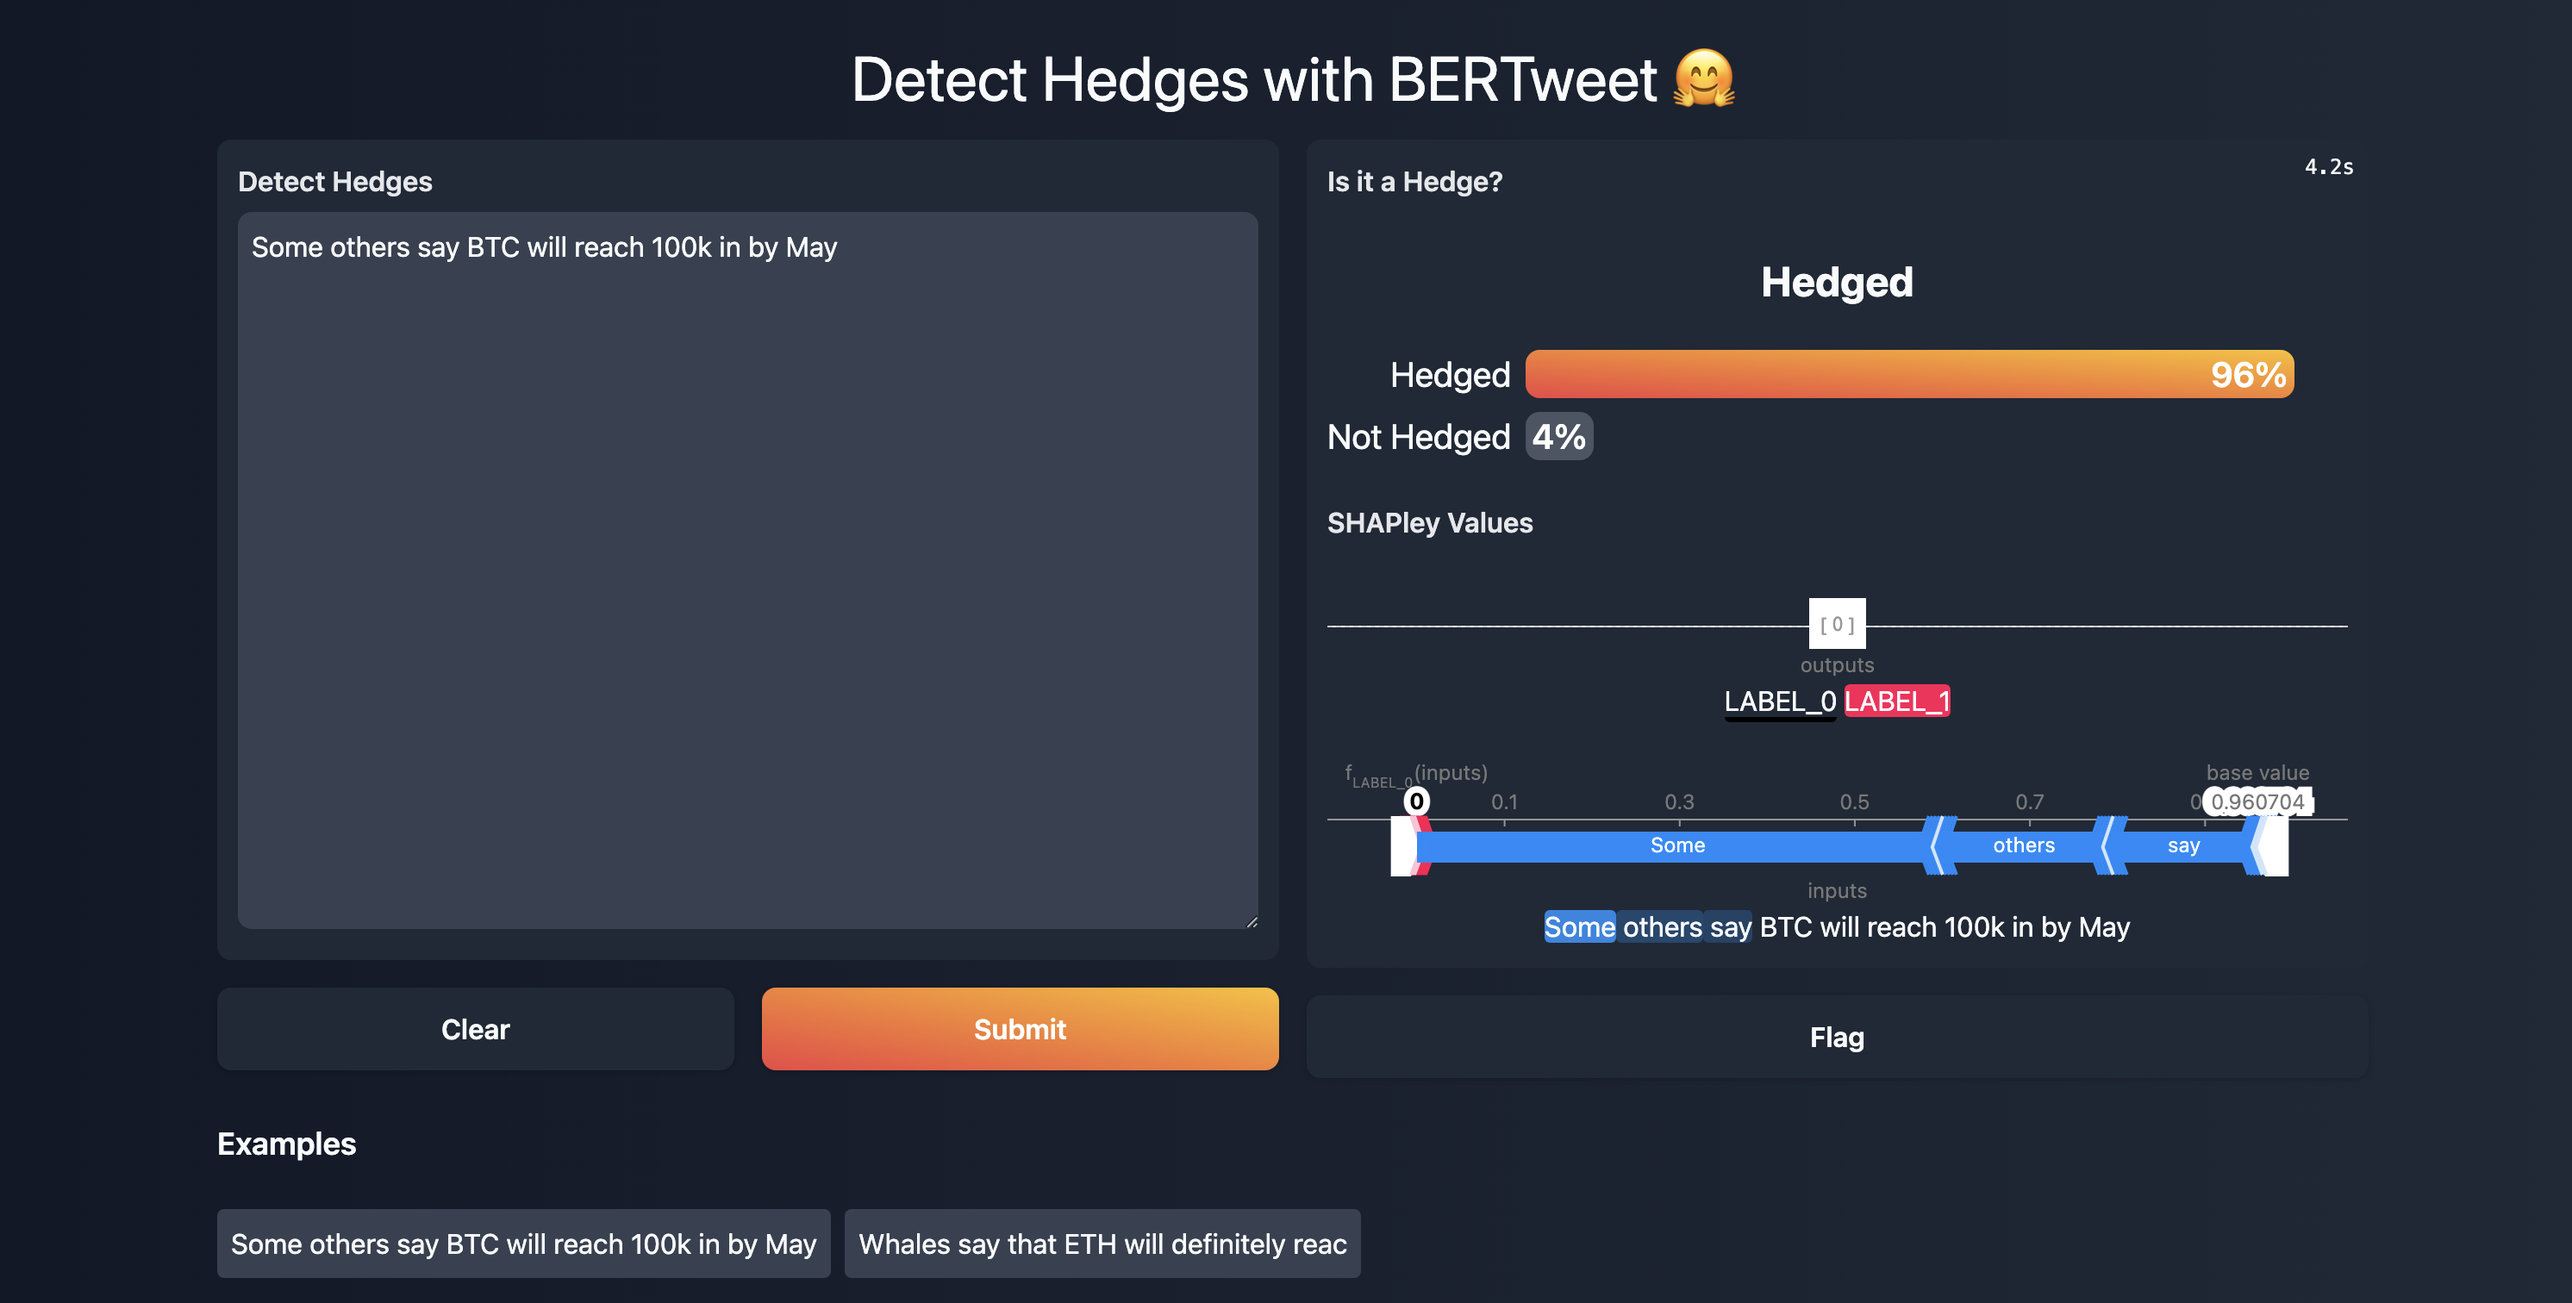
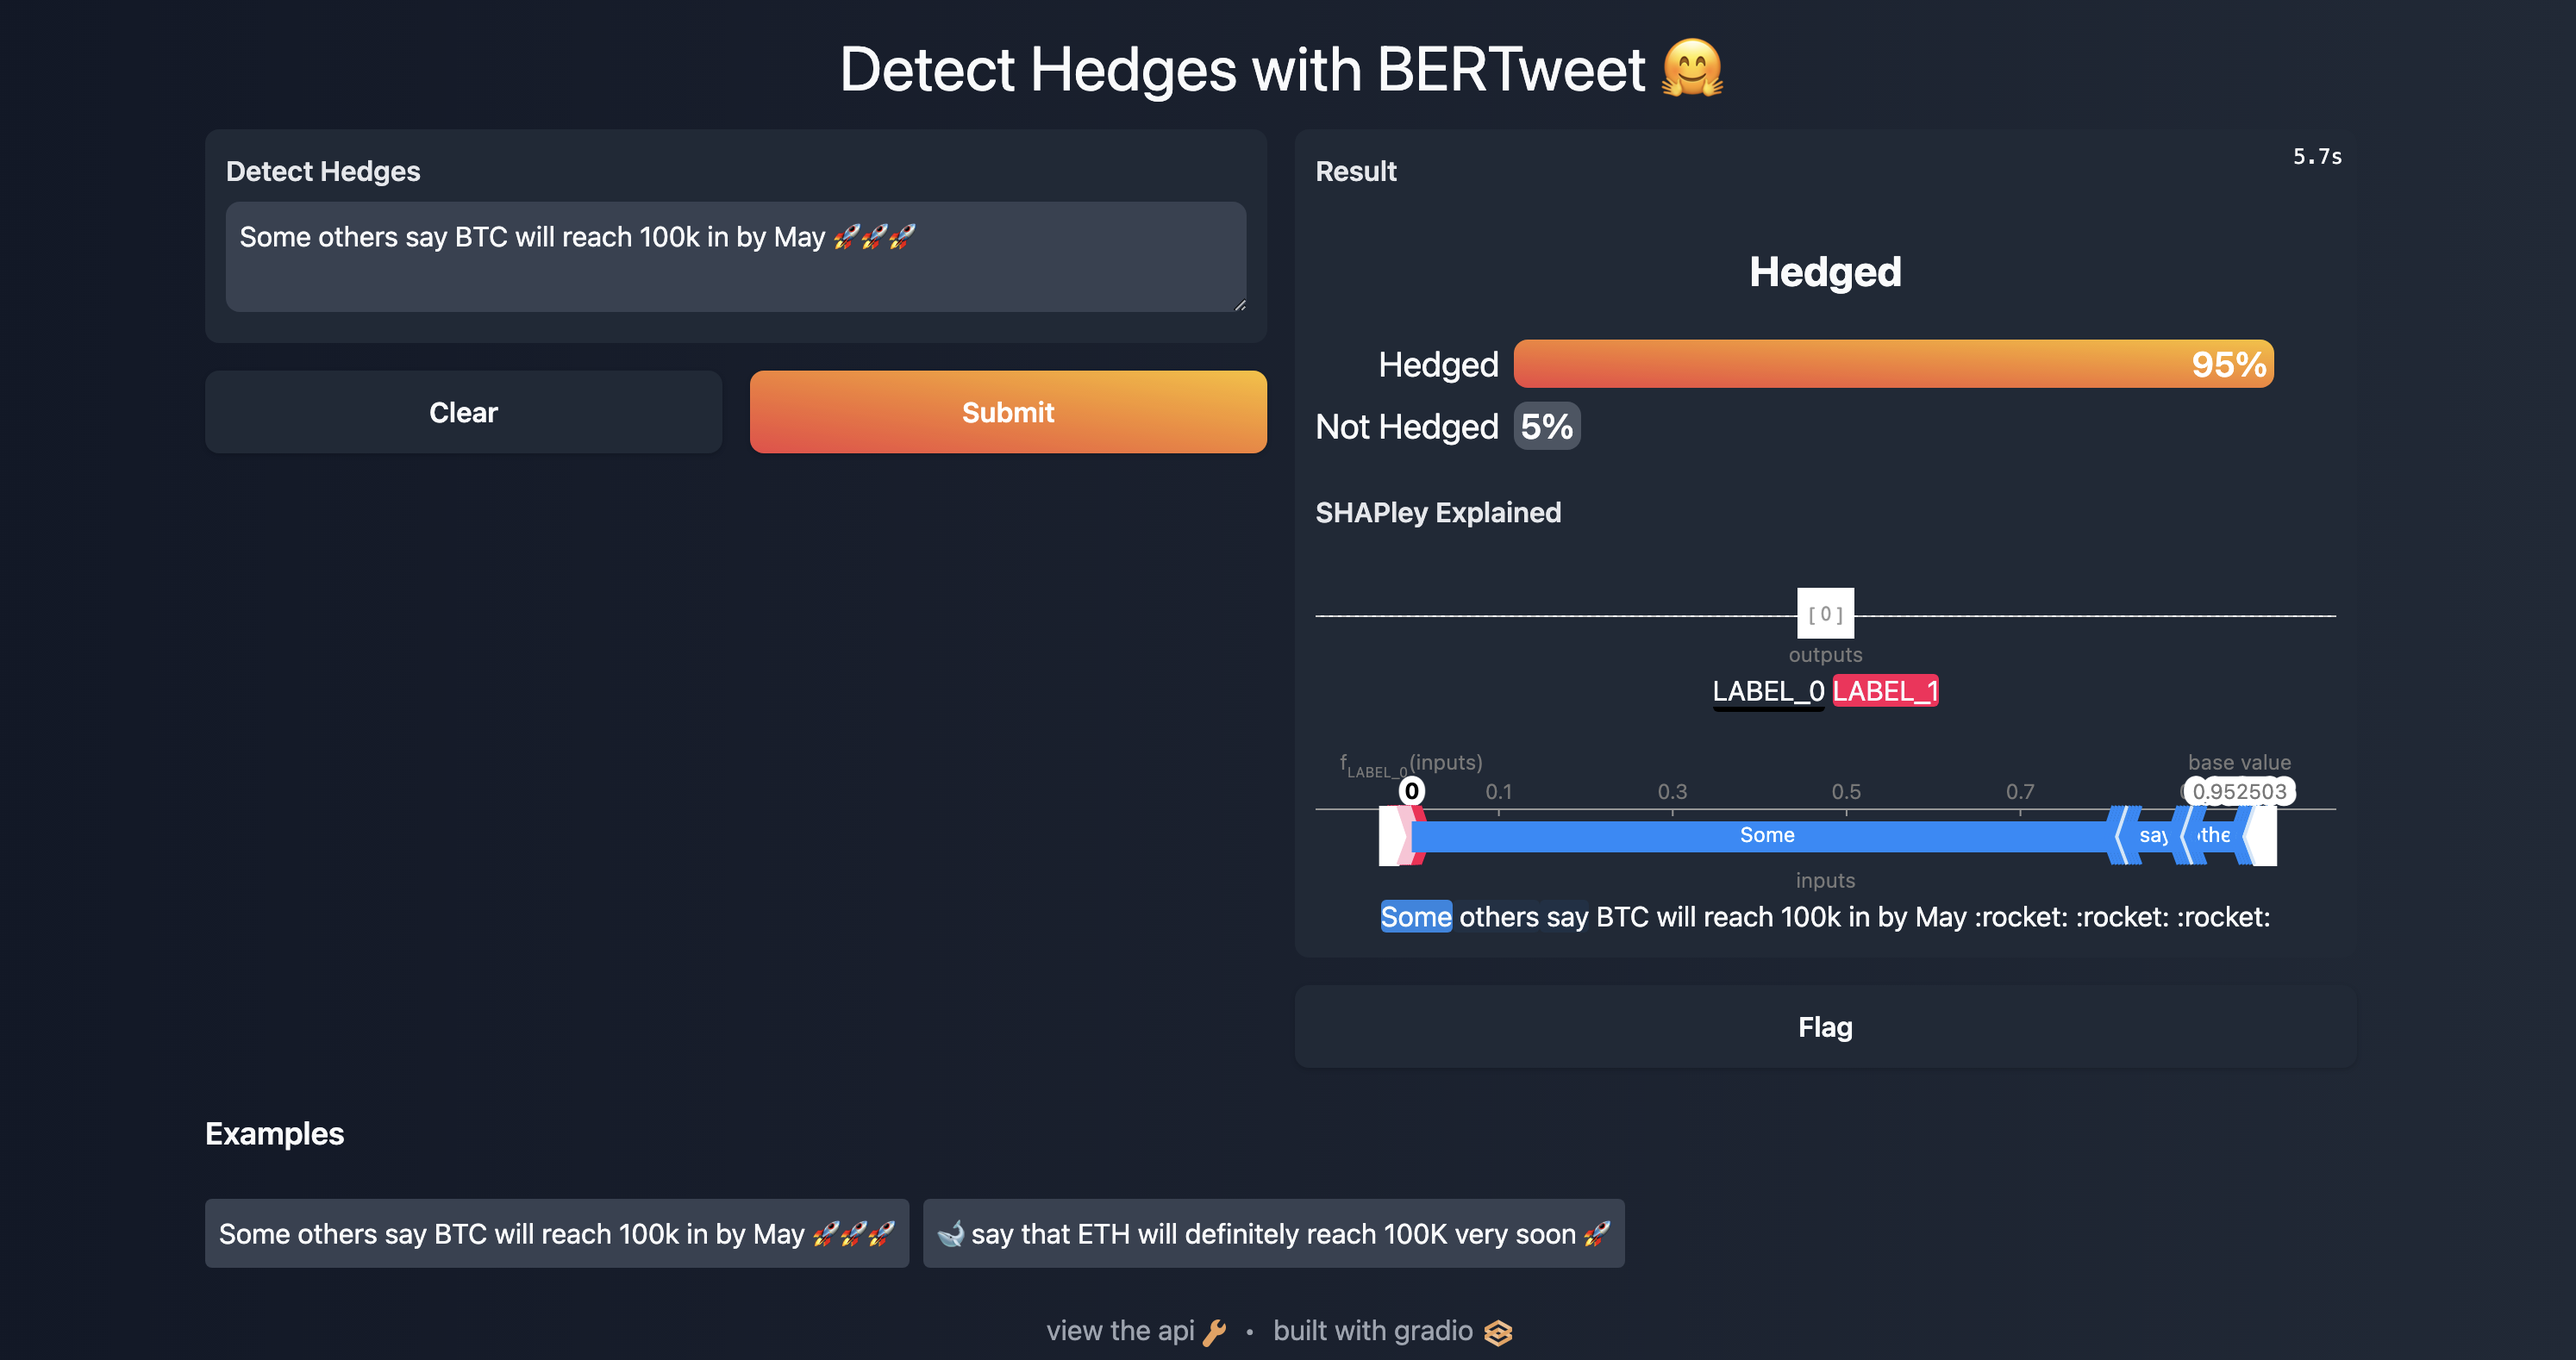
Updated deps & gradio app cli commands

diff --git a/nlp/hedge_classifier/gradio_app.py b/nlp/hedge_classifier/gradio_app.py
@@ -15,7 +15,7 @@ from transformers import (
 def run_app(
     hf_model_name: str = "vinai/bertweet-base",
     model_ckpt: Optional[str] = None,
-    theme: str = "darkpeach"
+    theme: str = "dark-peach"
 ) -> None:
 
     # Pipeline for Inference
@@ -64,8 +64,8 @@ def run_app(
             gr.outputs.HTML(label="SHAPley Explained")
         ],
         examples=[
-            ["Some others say BTC will reach 100k in by May"],
-            ["Whales say that ETH will definitely reac"]
+            ["Some others say BTC will reach 100k in by May 🚀🚀🚀"],
+            ["🐋 say that ETH will definitely reach 100K very soon 🚀"]
         ],
         theme=theme,
         capture_session=True

diff --git a/nlp/cli.py b/nlp/cli.py
@@ -36,7 +36,7 @@ def run_hedge_clf_demo(
         help="Pretrained model checkpoint to load from."
     ),
     theme: str = typer.Option(
-        "darkpeach",
+        "dark-peach",
         help="Gradio theme to use."
     )
 ):
